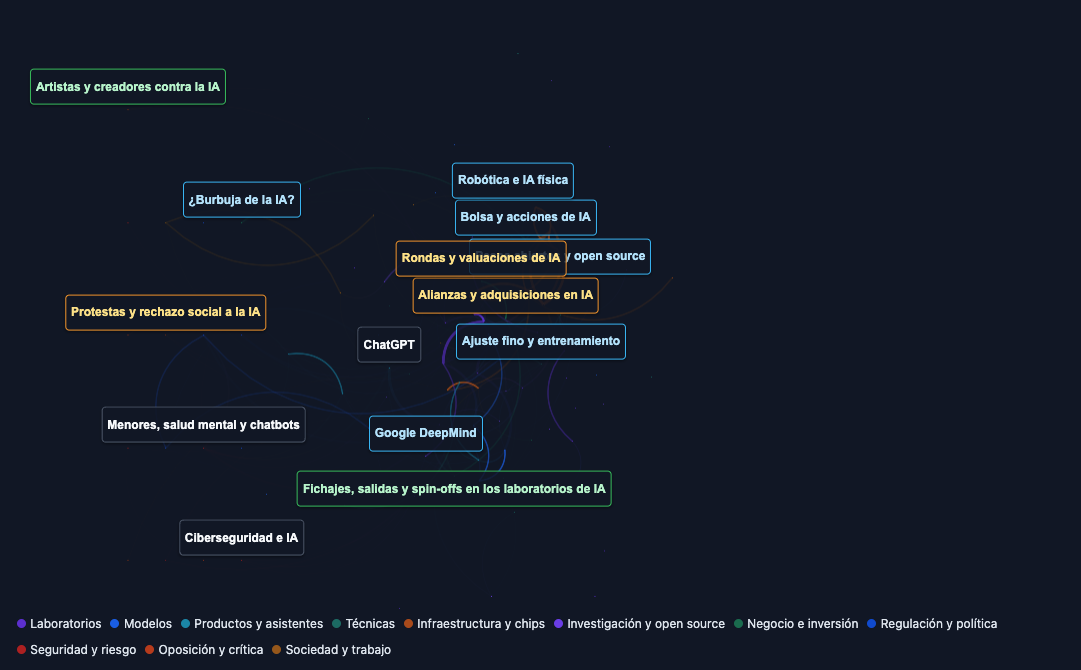
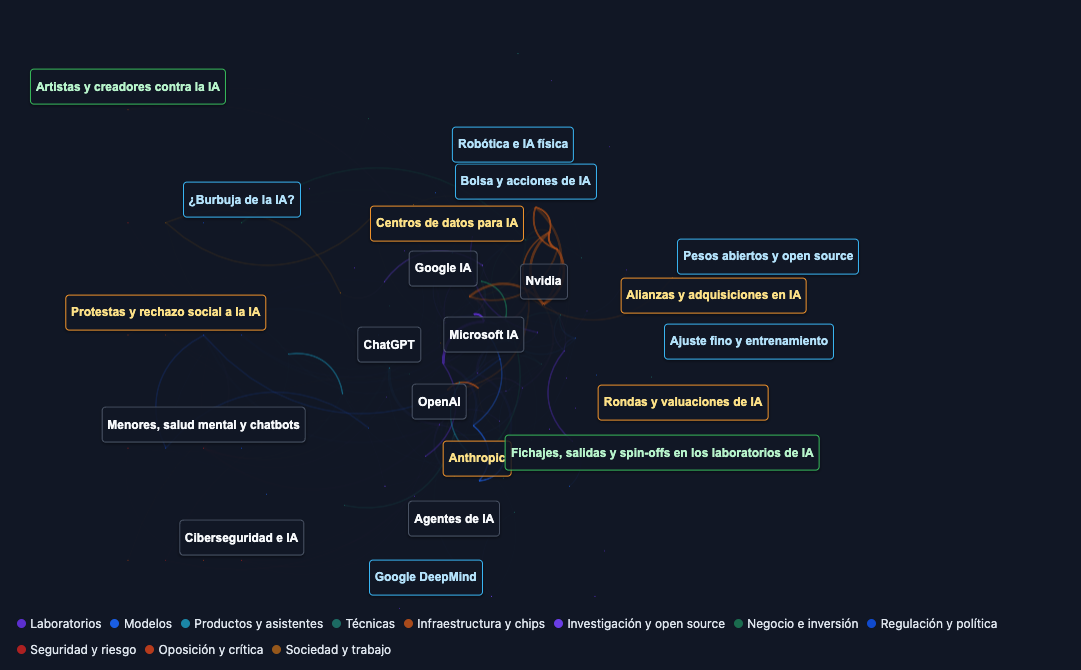
fix(web): recapture the fallback graph with the ai leaders labelled
The fallback image is the AI graph's default view at 2026-W42 with the
volume leaders labelled (Nvidia, OpenAI, Microsoft IA, Google IA,
Anthropic, Agentes de IA, ChatGPT, Centros de datos para IA) and the
radar top 10: 21 labels, headed Chrome with WebGL. The note under it
now names both label sets.

Changed region(s): [[0.3358, 0.1791, 0.7937, 0.5373], [0.2747, 0.5672, 0.7632, 0.806], [0.3358, 0.8358, 0.4579, 0.8955]]

diff --git a/web/src/components/TemporalGraph.tsx b/web/src/components/TemporalGraph.tsx
@@ -1709,8 +1709,8 @@ export function TemporalGraph({
               <p className="graph-fallback-note">
                 Imagen fija del grafo de IA (semana 2026-W42). Los colores son las familias del
                 léxico (laboratorios, modelos, productos, técnicas, infraestructura, investigación,
-                negocio, regulación, seguridad, oposición y sociedad); las etiquetas son temas del top
-                10 del radar.
+                negocio, regulación, seguridad, oposición y sociedad); las etiquetas son el top 10 del
+                radar y los 8 temas con más artículos de la semana.
               </p>
             </div>
           ) : (
